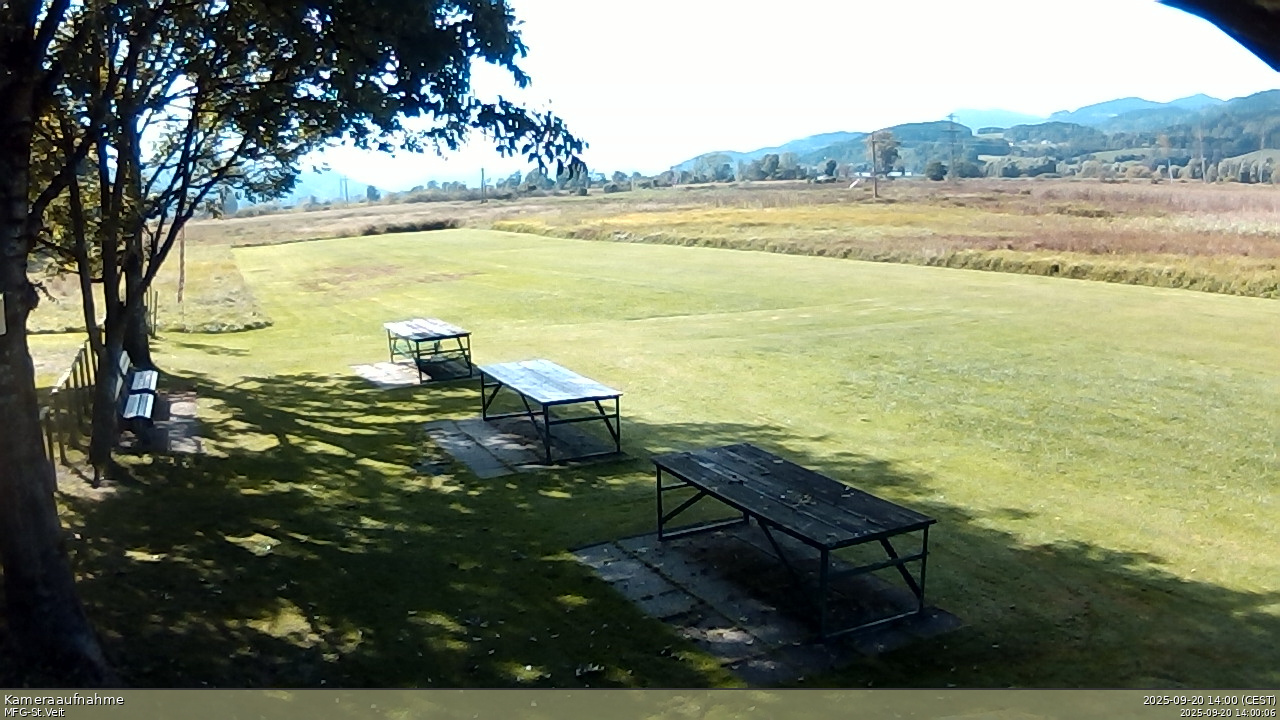
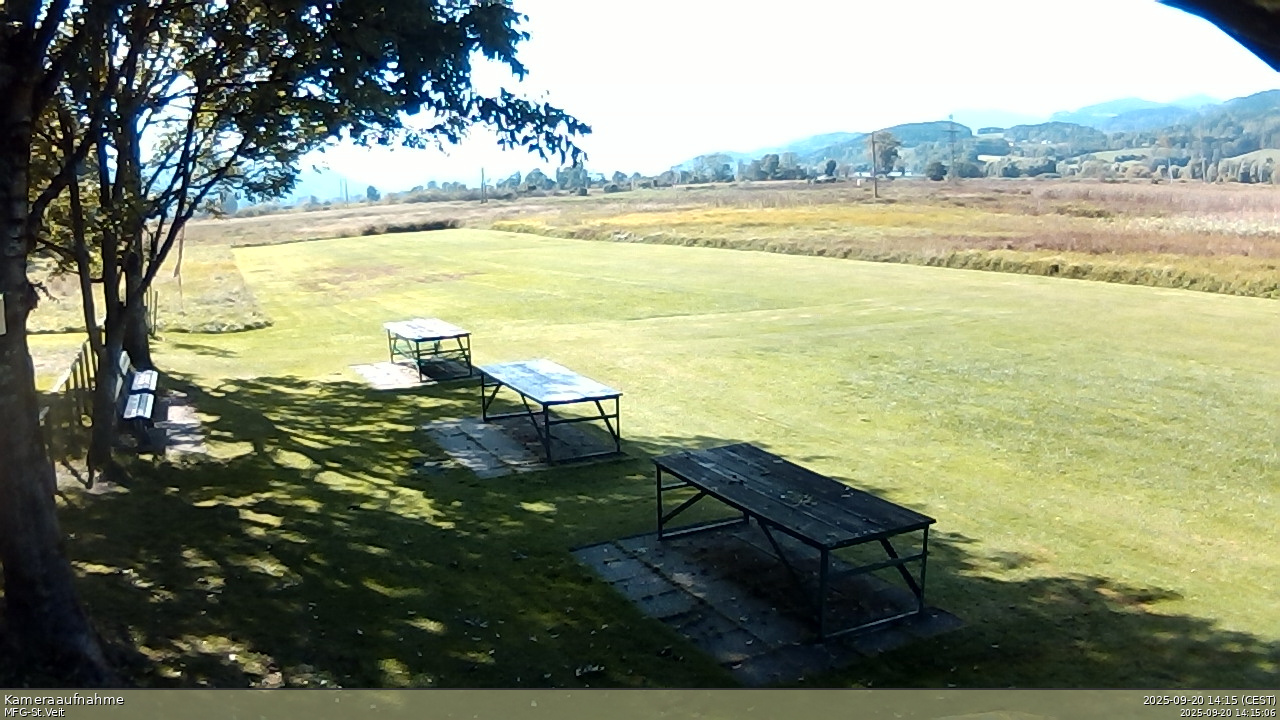
Automatischer Upload: 2025-09-20 14:15:08

diff --git a/index.html b/index.html
@@ -118,14 +118,14 @@
 
     <div class="info">
         <p class="highlight">Telemetriewerte Flugplatz</p>
-        <p><strong>Batterie links:</strong> 14.65 V</p>
-        <p><strong>Batterie rechts:</strong> 14.28 V</p>
-        <p><strong>Innentemperatur:</strong> 21.8 Grad</p>
-        <p><strong>Außentemperatur:</strong> 24.4 Grad</p>
+        <p><strong>Batterie links:</strong> 14.57 V</p>
+        <p><strong>Batterie rechts:</strong> 14.27 V</p>
+        <p><strong>Innentemperatur:</strong> 22.0 Grad</p>
+        <p><strong>Außentemperatur:</strong> 24.2 Grad</p>
     </div>
 
     <div class="footer">
-        <p>MFG-St.Veit/Glan - aktualisiert am 2025-09-20 14:00:08
+        <p>MFG-St.Veit/Glan - aktualisiert am 2025-09-20 14:15:07
     </div>
 </body>
 </html>
